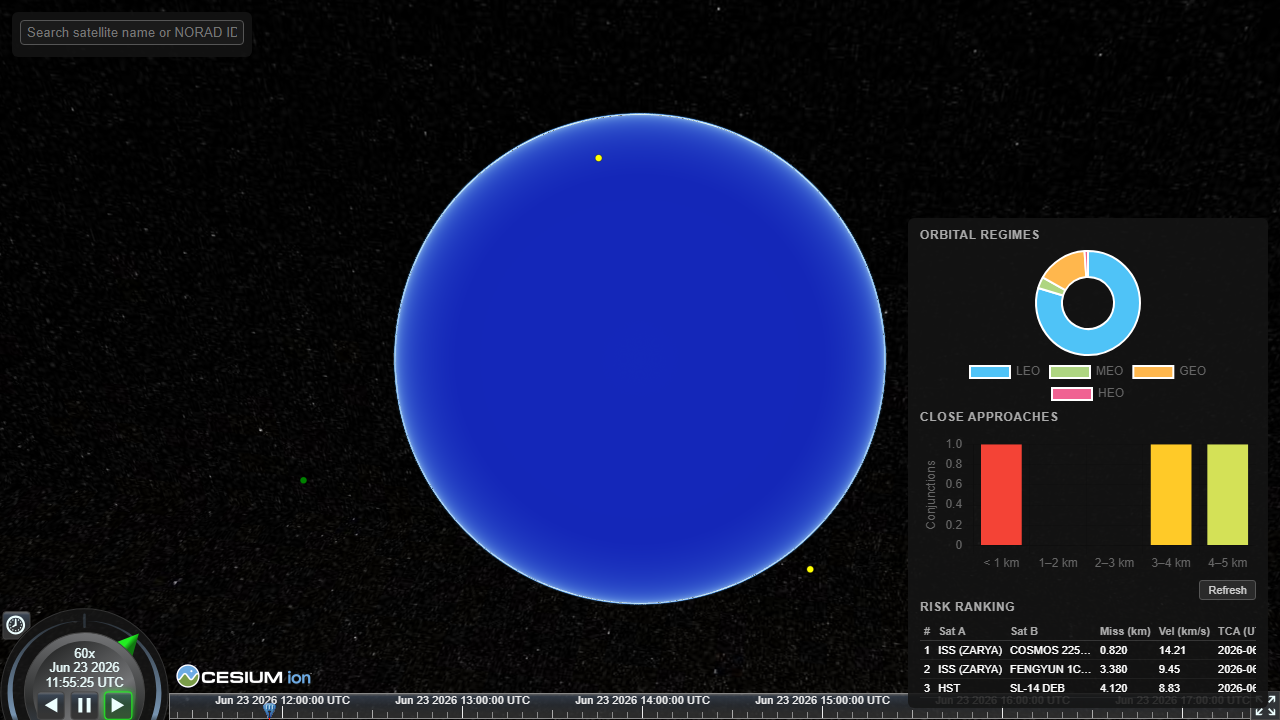
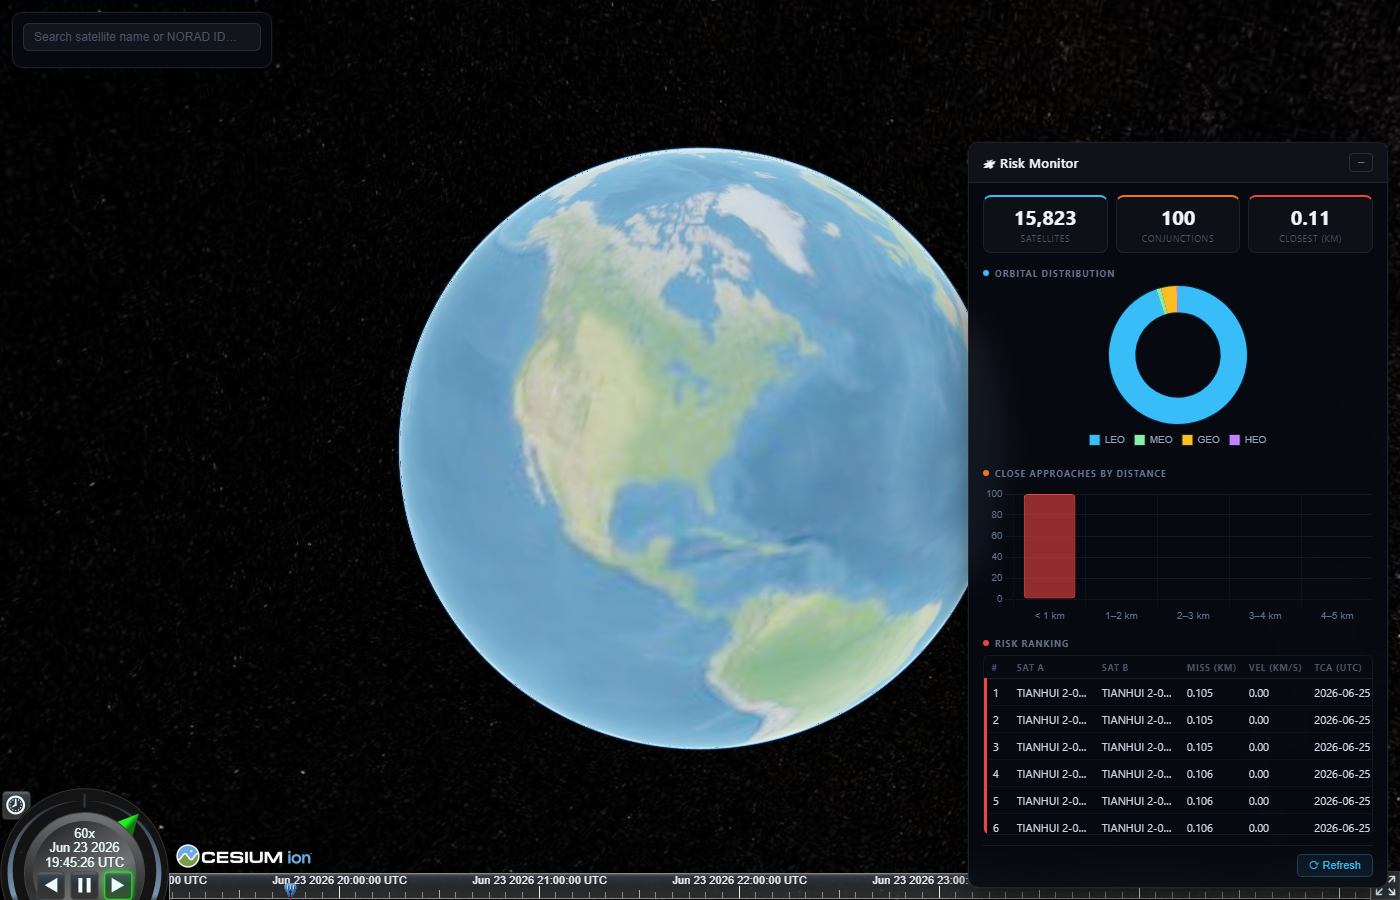
Update screenshots and README to match current UI

diff --git a/README.md b/README.md
@@ -207,23 +207,17 @@ Interactive docs available at `/docs` (Swagger UI) and `/redoc`.
 
 ## Screenshots
 
-### Globe — animated satellite tracks
+### Globe with Risk Monitor panel
 
-Satellites coloured by orbital regime (yellow = LEO, green = MEO, cyan = GEO, red = HEO) rendered on an offline Natural Earth globe with time-animated tracks.
+The 3D globe (offline Natural Earth imagery) shows 15,000+ active satellites colour-coded by orbital regime (yellow = LEO, green = MEO, cyan = GEO, red = HEO). The Risk Monitor panel on the right displays live stats, orbital-regime distribution, and the risk ranking table sorted by miss distance.
 
-![Globe with animated satellites across orbital regimes](docs/screenshots/globe-satellites.png)
+![Globe with satellite tracks and Risk Monitor panel open](docs/screenshots/globe-satellites.png)
 
-### Globe — risk polylines
+### Risk ranking table and close-approach chart
 
-Red polylines connect at-risk pairs (miss distance ≤ 1 km) and orange lines show pairs within the 5 km threshold. Polylines track the moving satellites as the Cesium clock advances.
+The lower section of the Risk Monitor shows the close-approaches-by-regime bar chart and the full risk ranking table listing the highest-risk satellite pairs with their miss distance and relative velocity.
 
-![Globe highlighting conjunction risk polylines between at-risk satellite pairs](docs/screenshots/globe-risk-polylines.png)
-
-### Insights dashboard
-
-The dashboard panel (bottom-right) shows the orbital-regime distribution chart, close-approach count chart, and the risk ranking table sorted by miss distance.
-
-![Dashboard panels showing regime distribution, approach counts, and risk ranking table](docs/screenshots/dashboard.png)
+![Risk ranking table and close-approach bar chart](docs/screenshots/dashboard.png)
 
 ---
 